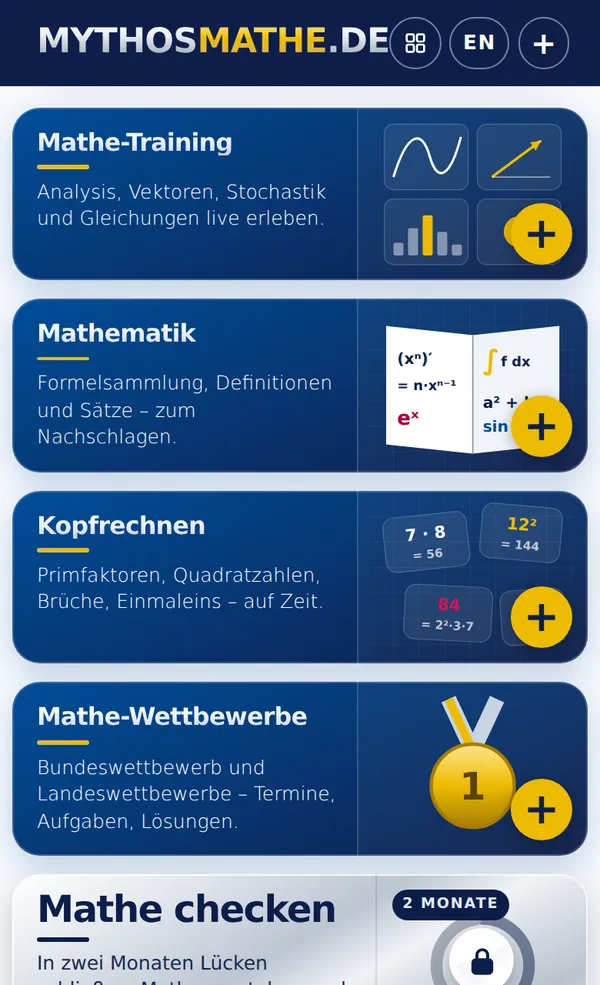
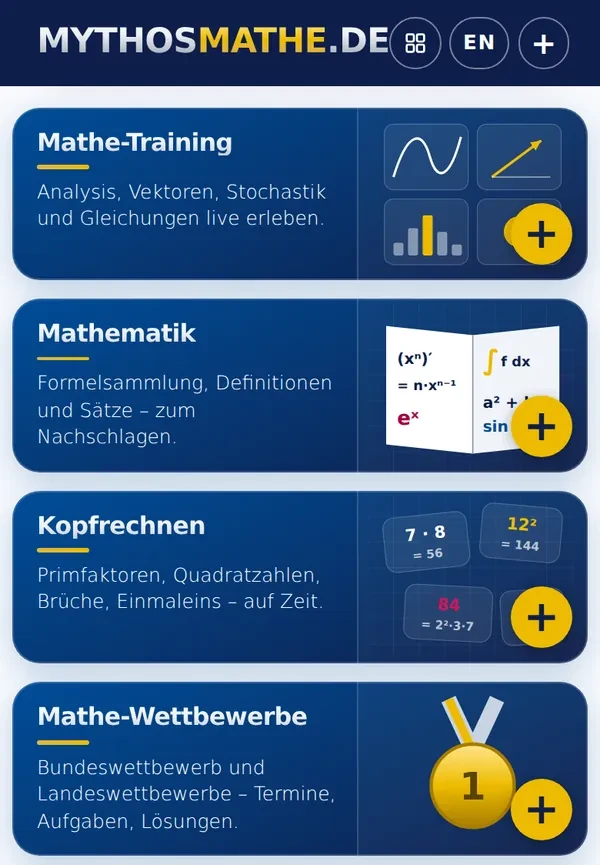
So nutzt du die App: Kopfrechnen-Kapitel, Kurse-Folie und Kapitel-Reiter entfernt
Übersichtsbild ohne die gesperrte Kachel am unteren Rand; Anleitung jetzt 6 Bilder.

Claude-Session: https://claude.ai/code/session_01MpSQcZVwHtbv41VGNpuPgg

diff --git a/matheskript-v80-deploy/src/funcAnleitung.jsx b/matheskript-v80-deploy/src/funcAnleitung.jsx
@@ -17,7 +17,6 @@ const L = (de, en) => (englisch() ? en : de);
 
 const KAPITEL = [
   { id: "ueberblick", name: ["Überblick", "Overview"] },
-  { id: "kopf", name: ["Kopfrechnen", "Mental math"] },
   { id: "kurve", name: ["Kurvendiskussion", "Curve sketching"] },
 ];
 
@@ -27,30 +26,6 @@ const FOLIEN = [
     titel: ["Oben: dein Trainingsbereich", "At the top: your training area"],
     text: ["Die blauen Kacheln sind dein Trainingsbereich. Tippe eine an, sie klappt mit ihren Werkzeugen auf.",
       "The blue tiles are your training area. Tap one and it opens up with its tools."] },
-  { id: "ueberblick-2", kap: "ueberblick",
-    titel: ["Unten: die Kurse", "Further down: the courses"],
-    text: ["Unten liegen die Kurse. Sie sind noch in Arbeit und mit einem Schloss markiert.",
-      "Further down are the courses. They are still being built and marked with a lock."] },
-  { id: "kopf-1", kap: "kopf",
-    titel: ["Kopfrechnen aufklappen", "Open Mental Math"],
-    text: ["Tippe auf „Kopfrechnen“. Darunter erscheinen die bunten Trainer, vom Einmaleins bis zur Division.",
-      "Tap “Mental Math”. The colourful trainers appear below, from times tables to long division."] },
-  { id: "kopf-2", kap: "kopf",
-    titel: ["Multiplizieren wählen", "Choose multiplication"],
-    text: ["Wir nehmen „Multiplizieren“. Hier übst du vom kleinen Einmaleins bis zu vierstelligen Zahlen.",
-      "We pick “Multiply”. Here you practise from small times tables up to four-digit numbers."] },
-  { id: "kopf-3", kap: "kopf",
-    titel: ["Schwierigkeit einstellen", "Set the difficulty"],
-    text: ["Stelle beide Zahlen auf „2-stellig“. Sofort erscheint eine Aufgabe, umstellen geht jederzeit.",
-      "Set both numbers to “2-digit”. A task appears at once, and you can change it any time."] },
-  { id: "kopf-4", kap: "kopf",
-    titel: ["Im Kopf rechnen, Lösung eintippen", "Work it out, type the answer"],
-    text: ["Rechne im Kopf, ohne Taschenrechner. Tippe das Ergebnis ein und bestätige mit OK.",
-      "Work it out in your head, no calculator. Type the result and confirm with OK."] },
-  { id: "kopf-5", kap: "kopf",
-    titel: ["Sofort Rückmeldung", "Instant feedback"],
-    text: ["Die App prüft sofort. Nach zehn Aufgaben siehst du Tempo und Treffsicherheit.",
-      "The app checks instantly. After ten tasks you see your speed and accuracy."] },
   { id: "kurve-1", kap: "kurve",
     titel: ["Mathe-Training → Analysis", "Math Training → Analysis"],
     text: ["Klappe „Mathe-Training“ auf und tippe auf „Analysis“. Alle Werkzeuge erscheinen darunter.",
@@ -88,9 +63,6 @@ const CSS = `
 
 function Folie({ f, nr, gesamt }) {
   const bild = (englisch() ? BILDER_EN : BILDER_DE)[f.id];   // Screenshots in der jeweiligen Sprache
-  const kap = KAPITEL.find((k) => k.id === f.kap);
-  const imKap = FOLIEN.filter((x) => x.kap === f.kap);
-  const stelle = imKap.indexOf(f) + 1;
   return (
     <div className="anl-folie" aria-roledescription={L("Folie", "Slide")} aria-label={`${nr} ${L("von", "of")} ${gesamt}: ${L(...f.titel)}`}>
       <div style={{ padding: "0 4px" }}>
@@ -107,9 +79,6 @@ function Folie({ f, nr, gesamt }) {
         </div>
         {/* Text */}
         <div style={{ padding: "16px 6px 0", textAlign: "left", maxWidth: 420, margin: "0 auto" }}>
-          <p style={{ fontSize: 11.5, fontWeight: 600, letterSpacing: "0.08em", color: C.gruen, marginBottom: 5 }}>
-            {L(...kap.name).toUpperCase()} · {L("SCHRITT", "STEP")} {stelle} {L("VON", "OF")} {imKap.length}
-          </p>
           <h4 style={{ fontSize: 17.5, fontWeight: 700, letterSpacing: "-0.01em", lineHeight: 1.3, color: C.tinte, marginBottom: 6 }}>{L(...f.titel)}</h4>
           <p style={{ fontSize: 14.5, fontWeight: 300, lineHeight: 1.65, color: C.grau, minHeight: "4.95em" }}>{L(...f.text)}</p>
         </div>
@@ -154,8 +123,6 @@ export function AppAnleitung() {
     return () => window.removeEventListener("keydown", taste);
   }, [auf, akt]);
 
-  const kapAkt = FOLIEN[akt].kap;
-
   return (
     <div style={{ background: C.weiss, borderRadius: 20, boxShadow: "0 2px 16px rgba(15,26,51,0.07)", margin: "18px 0 14px", overflow: "hidden",
       border: `1px solid ${auf ? "rgba(0,77,152,0.18)" : C.linie}` }}>
@@ -181,20 +148,6 @@ export function AppAnleitung() {
       <div className={`anl-koerper${auf ? " auf" : ""}`} aria-hidden={!auf} data-aufklapp-inhalt>
         <div>
           <div style={{ borderTop: `1px solid ${C.linie}`, padding: "14px 12px 18px" }}>
-            {/* Kapitel */}
-            <div role="tablist" aria-label={L("Kapitel", "Chapters")} style={{ display: "flex", gap: 6, justifyContent: "center", flexWrap: "wrap", marginBottom: 16 }}>
-              {KAPITEL.map((k) => {
-                const an = k.id === kapAkt;
-                return (
-                  <button key={k.id} type="button" role="tab" aria-selected={an} onClick={() => geheZu(FOLIEN.findIndex((x) => x.kap === k.id))}
-                    style={{ padding: "6px 12px", borderRadius: 999, fontSize: 12.5, fontWeight: an ? 700 : 500, fontFamily: "inherit", cursor: "pointer",
-                      border: `1px solid ${an ? C.see : C.linie}`, background: an ? C.see : C.weiss, color: an ? C.weiss : C.grau, whiteSpace: "nowrap" }}>
-                    {L(...k.name)}
-                  </button>
-                );
-              })}
-            </div>
-
             <div style={{ position: "relative" }}>
               {auf && (
                 <div ref={band} className="anl-band" onScroll={beimScrollen} aria-roledescription={L("Karussell", "Carousel")} aria-label={L("So nutzt du die App", "How to use this app")}>
@@ -210,7 +163,7 @@ export function AppAnleitung() {
               {FOLIEN.map((f, i) => (
                 <button key={f.id} type="button" onClick={() => geheZu(i)} aria-label={L(`Zu Folie ${i + 1}`, `Go to slide ${i + 1}`)}
                   style={{ width: i === akt ? 18 : 6, height: 6, borderRadius: 999, border: "none", padding: 0, cursor: "pointer",
-                    background: i === akt ? C.see : f.kap === kapAkt ? "#9DB6D8" : C.linie, transition: "width .25s ease, background .25s ease" }} />
+                    background: i === akt ? C.see : C.linie, transition: "width .25s ease, background .25s ease" }} />
               ))}
             </div>
             {akt === FOLIEN.length - 1 && (

diff --git a/matheskript-v80-deploy/src/anleitung/daten_en.js b/matheskript-v80-deploy/src/anleitung/daten_en.js
@@ -13,7 +13,7 @@ import b_kurve_4 from "./kurve-4-en.webp";
 import b_kurve_5 from "./kurve-5-en.webp";
 
 export const ANLEITUNG_BILDER = {
-  "ueberblick-1": { src: b_ueberblick_1, w: 390, h: 640, box: [0.51, 10.05, 98.97, 77.86] },
+  "ueberblick-1": { src: b_ueberblick_1, w: 390, h: 562, box: [0.51, 11.44, 98.97, 88.56] },
   "ueberblick-2": { src: b_ueberblick_2, w: 390, h: 640, box: [0.51, 10.26, 98.97, 48.59] },
   "kopf-1": { src: b_kopf_1, w: 390, h: 640, box: [0.51, 40.23, 98.97, 19.47] },
   "kopf-2": { src: b_kopf_2, w: 390, h: 640, box: [66.07, 40.01, 29.32, 20.0] },

diff --git a/matheskript-v80-deploy/src/anleitung/daten.js b/matheskript-v80-deploy/src/anleitung/daten.js
@@ -13,7 +13,7 @@ import b_kurve_4 from "./kurve-4.webp";
 import b_kurve_5 from "./kurve-5.webp";
 
 export const ANLEITUNG_BILDER = {
-  "ueberblick-1": { src: b_ueberblick_1, w: 390, h: 640, box: [0.51, 9.96, 98.97, 77.86] },
+  "ueberblick-1": { src: b_ueberblick_1, w: 390, h: 562, box: [0.51, 11.34, 98.97, 88.66] },
   "ueberblick-2": { src: b_ueberblick_2, w: 390, h: 640, box: [0.51, 10.32, 98.97, 48.59] },
   "kopf-1": { src: b_kopf_1, w: 390, h: 640, box: [0.51, 40.29, 98.97, 19.47] },
   "kopf-2": { src: b_kopf_2, w: 390, h: 640, box: [66.07, 40.07, 29.32, 20.0] },
